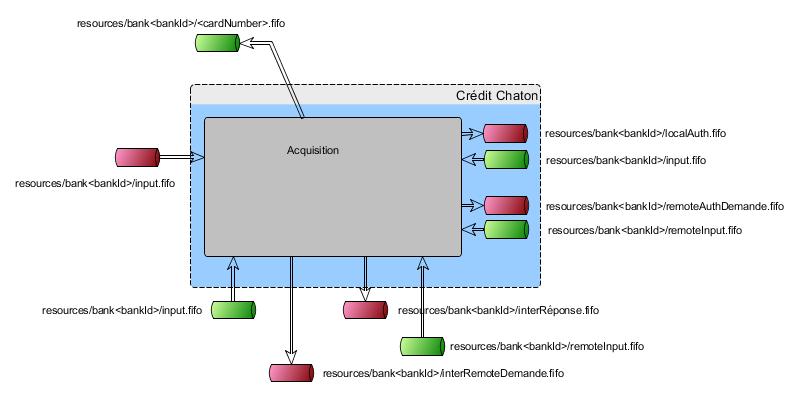
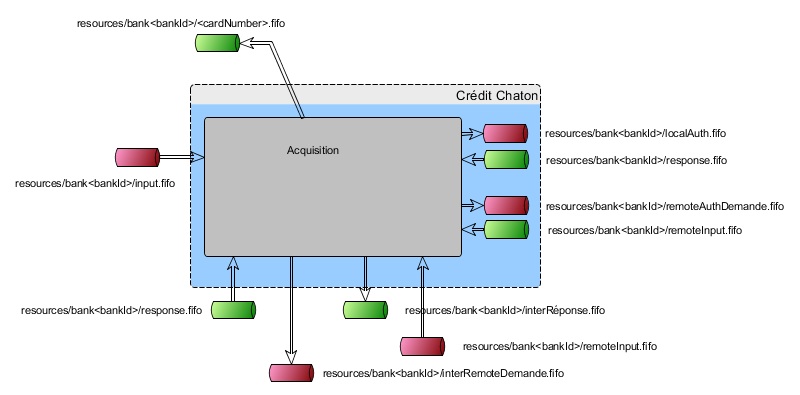
last commit
git-svn-id: https://svnedu.esiee.fr/svn/PR3602_111_marteld@100 c9f86b0d-2f9a-42de-980a-b0dfa8591743

diff --git a/doc/Rapport/rapport.tex b/doc/Rapport/rapport.tex
@@ -231,14 +231,15 @@ Ce serveur est connecté à deux tubes en écriture et deux tubes en lecture.
 \begin{description}
 	\item[resources/bank<bankId>/localAuth.fifo] (read) permet de recevoir des demande d'autorisation du serveur d'acquisition
 	\item[resources/bank<bankId>/remoteAuthDemande.fifo] (read) permet de recevoir des demandes venant du serveur interbancaire
-	\item[resources/bank<bankId>/input.fifo] (write) permet d'envoyer les réponses au serveur d'acquisition
+	\item[resources/bank<bankId>/response.fifo] (write) permet d'envoyer les réponses au serveur d'acquisition
 	\item[resources/bank<bankId>/remoteInput.fifo] (write) permet d'envoyer des réponses au serveur interbancaire
 \end{description}
 \graph{0.5}{autorisation}
 \subsection{Acquisition}
 Ce serveur est connecté à 2 tubes en lecture et 5 tubes en écriture.
 \begin{description}
-	\item[resources/bank<bankId>/input.fifo] (read) permet de recevoir des demandes ou des réponses locales à traiter
+	\item[resources/bank<bankId>/input.fifo] (read) permet de recevoir des demandes locales à traiter
+	\item[resources/bank<bankId>/response.fifo] (read) permet de recevoir réponses locales à traiter
 	\item[resources/bank<bankId>/remoteInput.fifo] (read) permet de recevoir des demandes ou des réponses distantes à traiter
 	\item[resources/bank<bankId>/localAuth.fifo] (write) permet d'envoyer des demandes d'autorisation locales
 	\item[resources/bank<bankId>/interRemoteDemande.fifo] (write) permet d'envoyer des demandes d'autorisation au serveur interbancaire
@@ -254,11 +255,9 @@ Ainsi pour n banques reliées, il gère 4n tubes en lecture et 2n tubes en écri
 
 \begin{description}
 	\item[resources/bank<bankId>/interRemoteDemande.fifo] (read) permet de recevoir des demandes d'autorisation d'une banque
-	\item[resources/bank<bankId>/input.fifo] (read) permet de recevoir des demandes ou des réponses locales à traiter
 	\item[resources/bank<bankId>/remoteInput.fifo] (read) permet de recevoir des demandes ou des réponses distantes à traiter
 	\item[resources/bank<bankId>/interRéponse.fifo] (read) permet de recevoir une réponse d'un serveur d'autorisation d'une banque
-	\item[resources/bank<bankId>/input.fifo] (write) permet d'envoyer des réponses distantes à une banque
-	\item[resources/bank<bankId>/remoteInput.fifo] (write) permet d'envoyer des demandes d'autorisation à une banque
+	\item[resources/bank<bankId>/response.fifo] (write) permet d'envoyer des réponses distantes à une banque
 \end{description}
 \graph{0.5}{interbancaire}
 
@@ -304,7 +303,86 @@ En plus de cela, chacun des threads devra pour ne pas bloquer le broadcast, cont
 \noindent
 Il se pose alors un problème de scalabilité, afin de pouvoir simplement augmenter les performances en lançant un deuxième serveur interbancaire, chaque sous routine de broadcast devra pouvoir communiquer entre-elles afin qu'un broadcast d'un serveur interbancaire soit répercuté sur chacun des serveurs interbancaires lancés.
 
+\subsection{Interblocage}
+Pour voir si il est possible d'avoir des interblocage, regardons le chemin que prend un message de la demande à sa réponse depuis un terminal.
+\graph{0.4}{interblocage}
 
+Sont représenté ici les chemin d'un message de terminaux de la banque crédit chaton faisant des demandes locales et distante (vers bénépé).
+Sur leurs chemins nous voyons que ces deux demandes se croisent déjà au niveau du tube \og input\fg{} de la banque crédit chaton, des croisement non visible sur le graph peuvent aussi se produire au niveau de tous les tubes connecté aux serveur interbancaire, sauf à ceux indiquer par un petit cadenas ainsi que les tube accessible à partir d'eux.
+Nous noterons qu'il n'y a pas de tube qui contient à la fois des messages de demande et de réponse.
+Lors de la lecture d'un message par un serveur, il est toujours possible par le thread qui le lit, d'obtenir le fichier dans lequel écrire de plus chaque message est router directement sans mise en mémoire par les serveur, la temporisation se faisait par la structure interne des tubes.
+Dans le cas d'un tube plein, lors de l'écriture, acquisition peut toujours écrire dans le tube de réception des terminaux, ceux-ci étant unique et ne contenant qu'un seul message.
+Chaque message finissant sont trajet dans ces tubes (tube de réception des terminaux), finirons par passer un moment ou à un autre à travers les différents tubes qui se viderons peu à peu les débloquant éventuellement.
+Les différents serveurs serons donc en attente pendant ce temps les lectures et écritures dans les tubes étant bloquantes.
+
+\section{Bugs}
+Un certain nombres de problèmes connu existe encore au niveau de cette simulation.
+\begin{itemize}
+\item Lors de la fermeture d'un terminal, un message NULL est lu par le serveur d'acquisition, n'étant pas au bon format celui-ci s'arrête.
+\item de la même manière, en connectant la sortie de randGen (nous parlerons de ce programme dans 2 section), un même message NULL est reçu par acquisition l'arrêtant aussi.
+\item l'utilisation simultané de deux serveur interbancaire peut potentiellement bloquer toute la simulation, les thread de travail étant bloqué jusqu'à l'obtention d'une réponse.
+\item Un serveur d'acquisition peut rester bloquer si un terminal associé n'est pas lancer, il attend l'ouverture du tube \og input.fifo\fg{} en écriture pour pouvoir continuer, une solution peut être de lancer cette commande:\\
+\vspace{-1em}
+\begin{verbatim}
+	$ cat /dev/null > resources/<bankId>/input.fifo
+\end{verbatim}
+\item Le système est conçu pour être scalable assez simplement en exécutant plusieurs fois un serveur, il se connectera aux unique tubes d'entrée/sortie par banque parrallélisant ainsi le traitement de donnée, cependant le protocole ne permet pas d'obtenir des processus \og thread safe\fg{}, les demandes ayant des tailles variable, nous somme obliger de lire un a un les caractère d'un tube ce qui, si fait par plusieurs processus en même temps, peut donner un mélange de deux messages différents, une solution serait d'avoir des messages à taille fixe et lire d'un coup toute la trame (read est thread safe pour des lectures de moins de 512 octets).
+\end{itemize}
+
+\section{Tests}
+Afin de tester indépendemment chaque serveur, il faut créer les différents tubes à la main et écrire et lire directement dedans, ces tests n'étant qu'une validation rapides des différents serveurs, aucun script n'a été conçu pour en facilité la tâche, il faut donc à la main forger des messages et les envoyer aux différents serveur.\\
+
+Exemple: \vspace{-0.9em}
+\begin{verbatim}
+	$ echo 11111018738962640674825418319 | ./terminal -b 1111&
+	$ cat resourcces/bank1111/input.fifo&
+	$ echo "|1111101873896264|Réponse|0|" >> resources/bank1111/1111101873896264.fifo
+\end{verbatim}
+
+\section{Autres programmes}
+En plus des différents serveurs de la simulation, il y a un autre programme ainsi qu'un script bash servant à d'en automatiser le lancement et son utilisation.
+Le programme du nom de \og randGen\fg{} permet de générer aléatoirement des numéro de carte bancaire et des annuaires.
+Les scripts bash eux permettent de générer les annuaires et de les placers aux bons endroits ainsi que de lancer une simulation.
+
+\section{Utilisation}
+Pour démarrer une simulation, un certain nombres de serveurs doivent être lancé.
+La banque, qui est en ensemble de deux serveurs (autorisation et acquisition), en leurs passant la banque qu'ils représentent en paramètre.
+\begin{verbatim}
+	$ ./acquisition -b 1234 &
+	$ ./autorisation -b 1234 &
+\end{verbatim}
+
+Le serveur interbancaire avec en paramètre l'emplacement d'un fichier d'annuaire contenant les ids des differentes banque (un id de 4 chiffres par ligne) et éventuellement le nombres de resources disponible (par défaut une seul)
+\begin{verbatim}
+	$ ./interbancaire -f resources/bank.txt -j 42 &
+\end{verbatim}
+
+et enfin un terminal associé à une banque
+\begin{verbatim}
+	$ ./terminal -b 1234
+\end{verbatim}
+
+A noter qu'il faut avant le lancement des serveurs d'autorisation générer des annuaires dans le dossier resources/bankId/annuaire.txt avec pour format:
+pour chaque ligne (de 29 caractère), les 16 chiffre du numéro de carte de crédit suivit sans séparateur du crédit (en centimes) du compte associé.
+Nous pouvons utiliser pour cela le programme \og randGen\fg{}
+\begin{verbatim}
+	$ mkdir resources/bank1234/
+	$ ./randGen -b 1234 -n 100 > resources/bank1234/annuaire.txt
+\end{verbatim}
+
+Enfin, pour utiliser les terminaux, l'utilisateur doit rentrer sont numéro de carte de crédit suivit immédiatement du montant de la transaction en centimes (29 caractère).
+Encore une fois, randGen peut être utilisé.
+\begin{verbatim}
+	$ ./randGen -n 5000 -b 0000 -u |./terminal -b 1234
+\end{verbatim}
+
+Tout ceci peut aussi se faire automatique en lançant la simple commande
+\begin{verbatim}
+	$ make run
+\end{verbatim}
+qui lancera les différents serveurs (bank 0000 et 1111), ainsi que deux terminaux faisant 5000 demandes pour la banque 1111
+
+\section{Scalabilité}
 
 \section{Questions pré-projet}
 \begin{enumerate}

diff --git a/src/acquisition.c b/src/acquisition.c
@@ -176,8 +176,6 @@ void* remoteResponse(){
 void printHelp(const char* programName){
 	fprintf(	stderr,
 				"Usage : %s [OPTION]...\n"
-				"  -i,--input\t file descriptor to read into (mandatory)\n"
-				"  -o,--output\t file descriptor to write into (mandatory)\n"
 				"  -b,--bank\t bank id (mandatory)\n",
 				programName
 	);

diff --git a/src/terminal.c b/src/terminal.c
@@ -69,9 +69,9 @@ int main(int argc, char* argv[]){
 			
 			int ack = (int)(string[27] - '0');
 			if(ack){
-				printf(" transaction accepted\n");
+				printf(" transaction %d accepted\n",i);
 			}else{
-				printf(" transaction refused\n");
+				printf(" transaction %d refused\n",i);
 			}
 			free(string);
 		}
